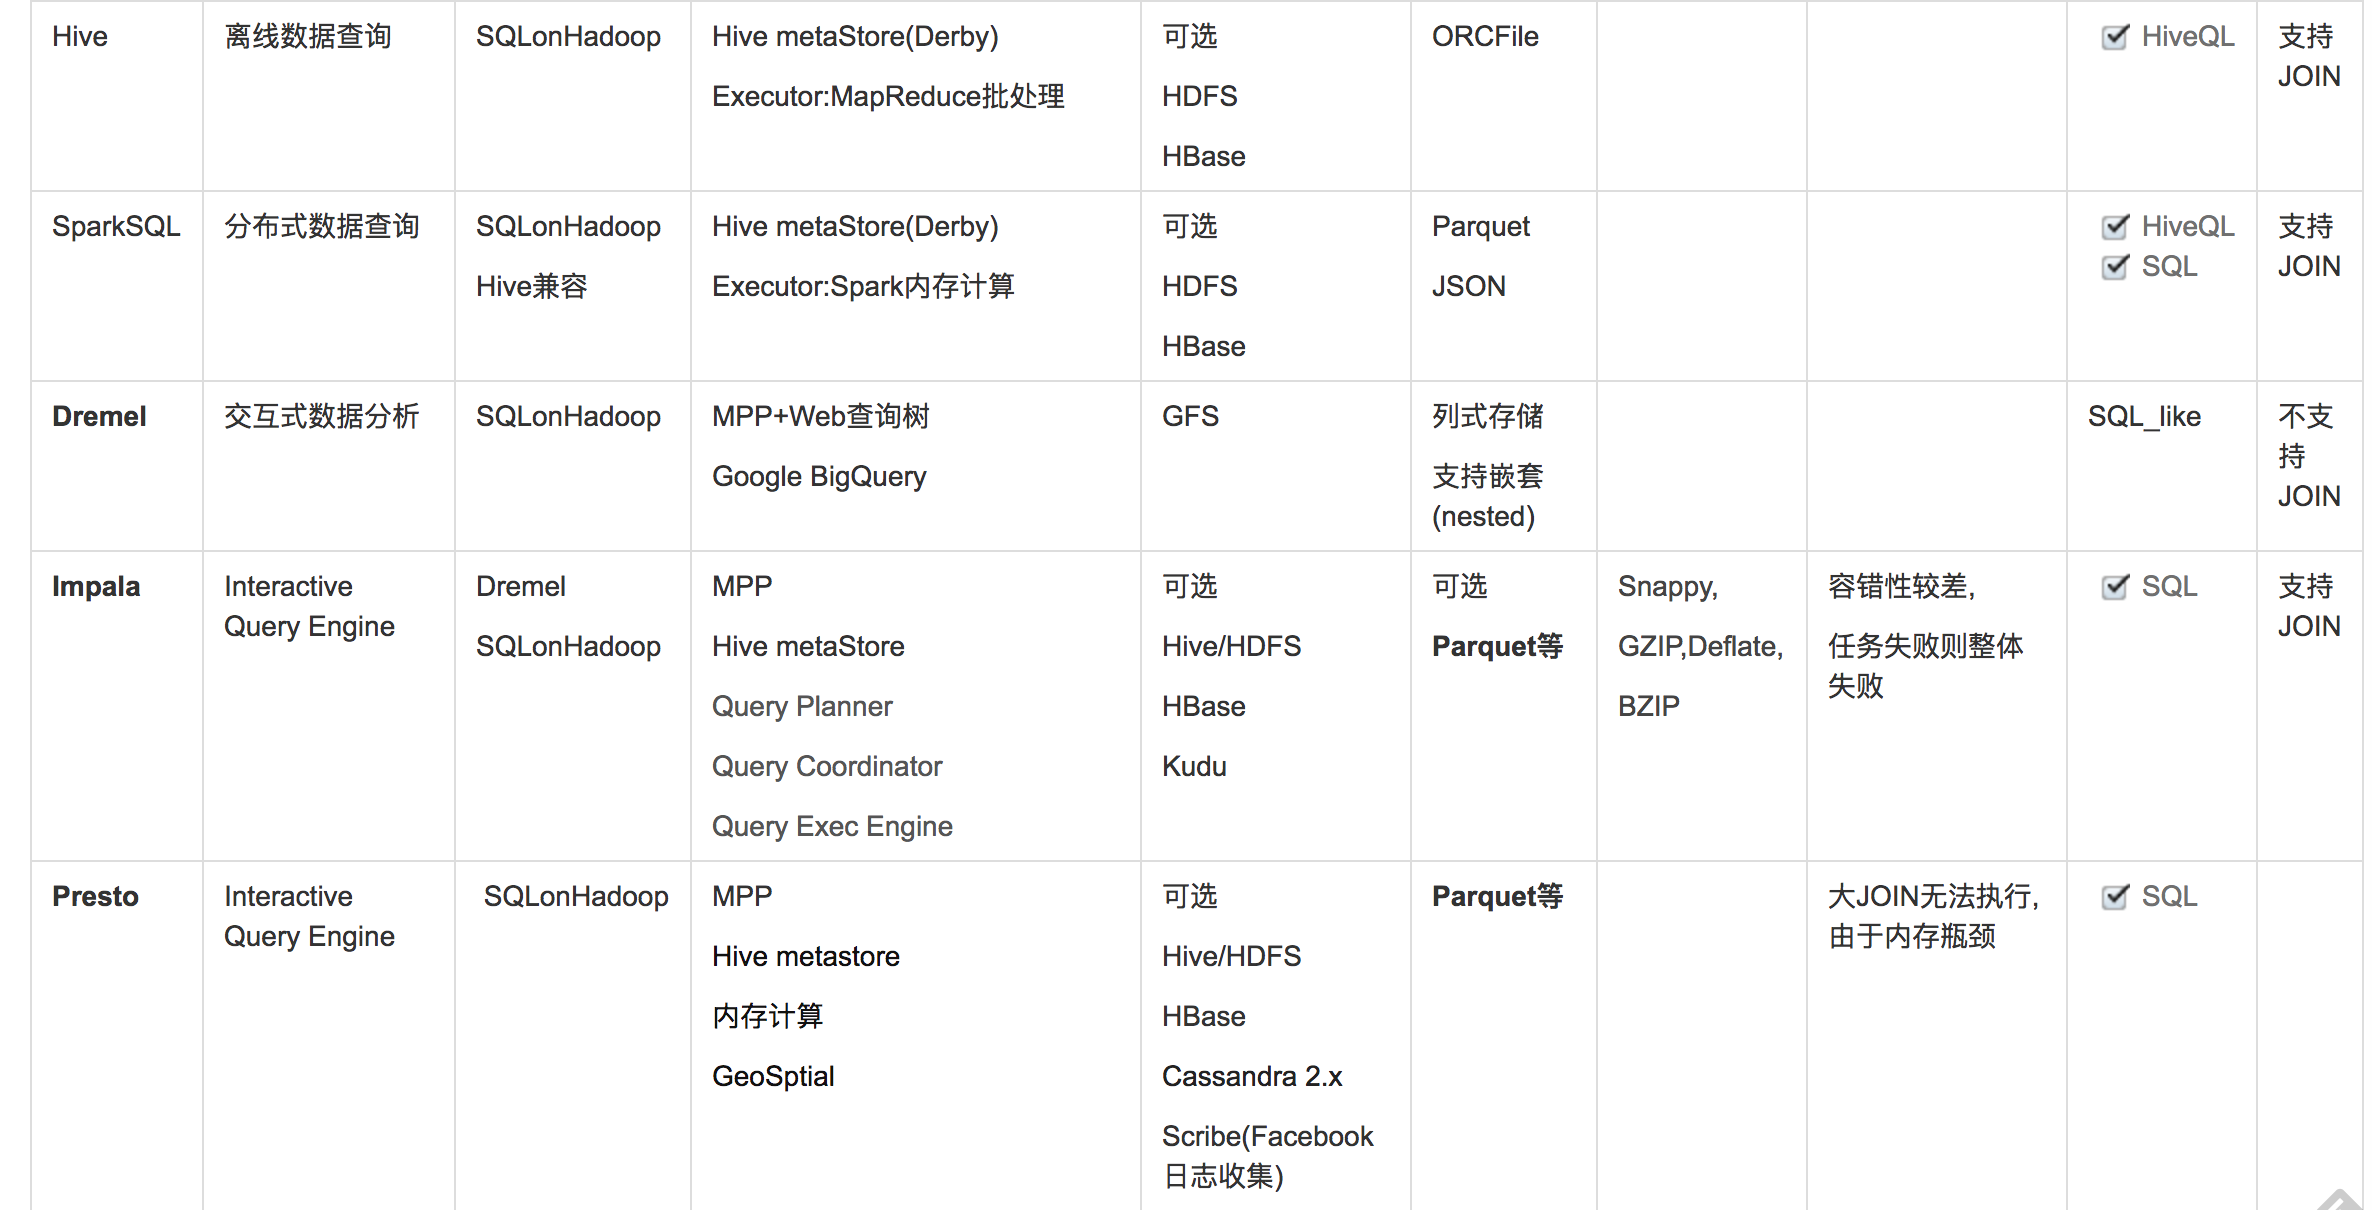
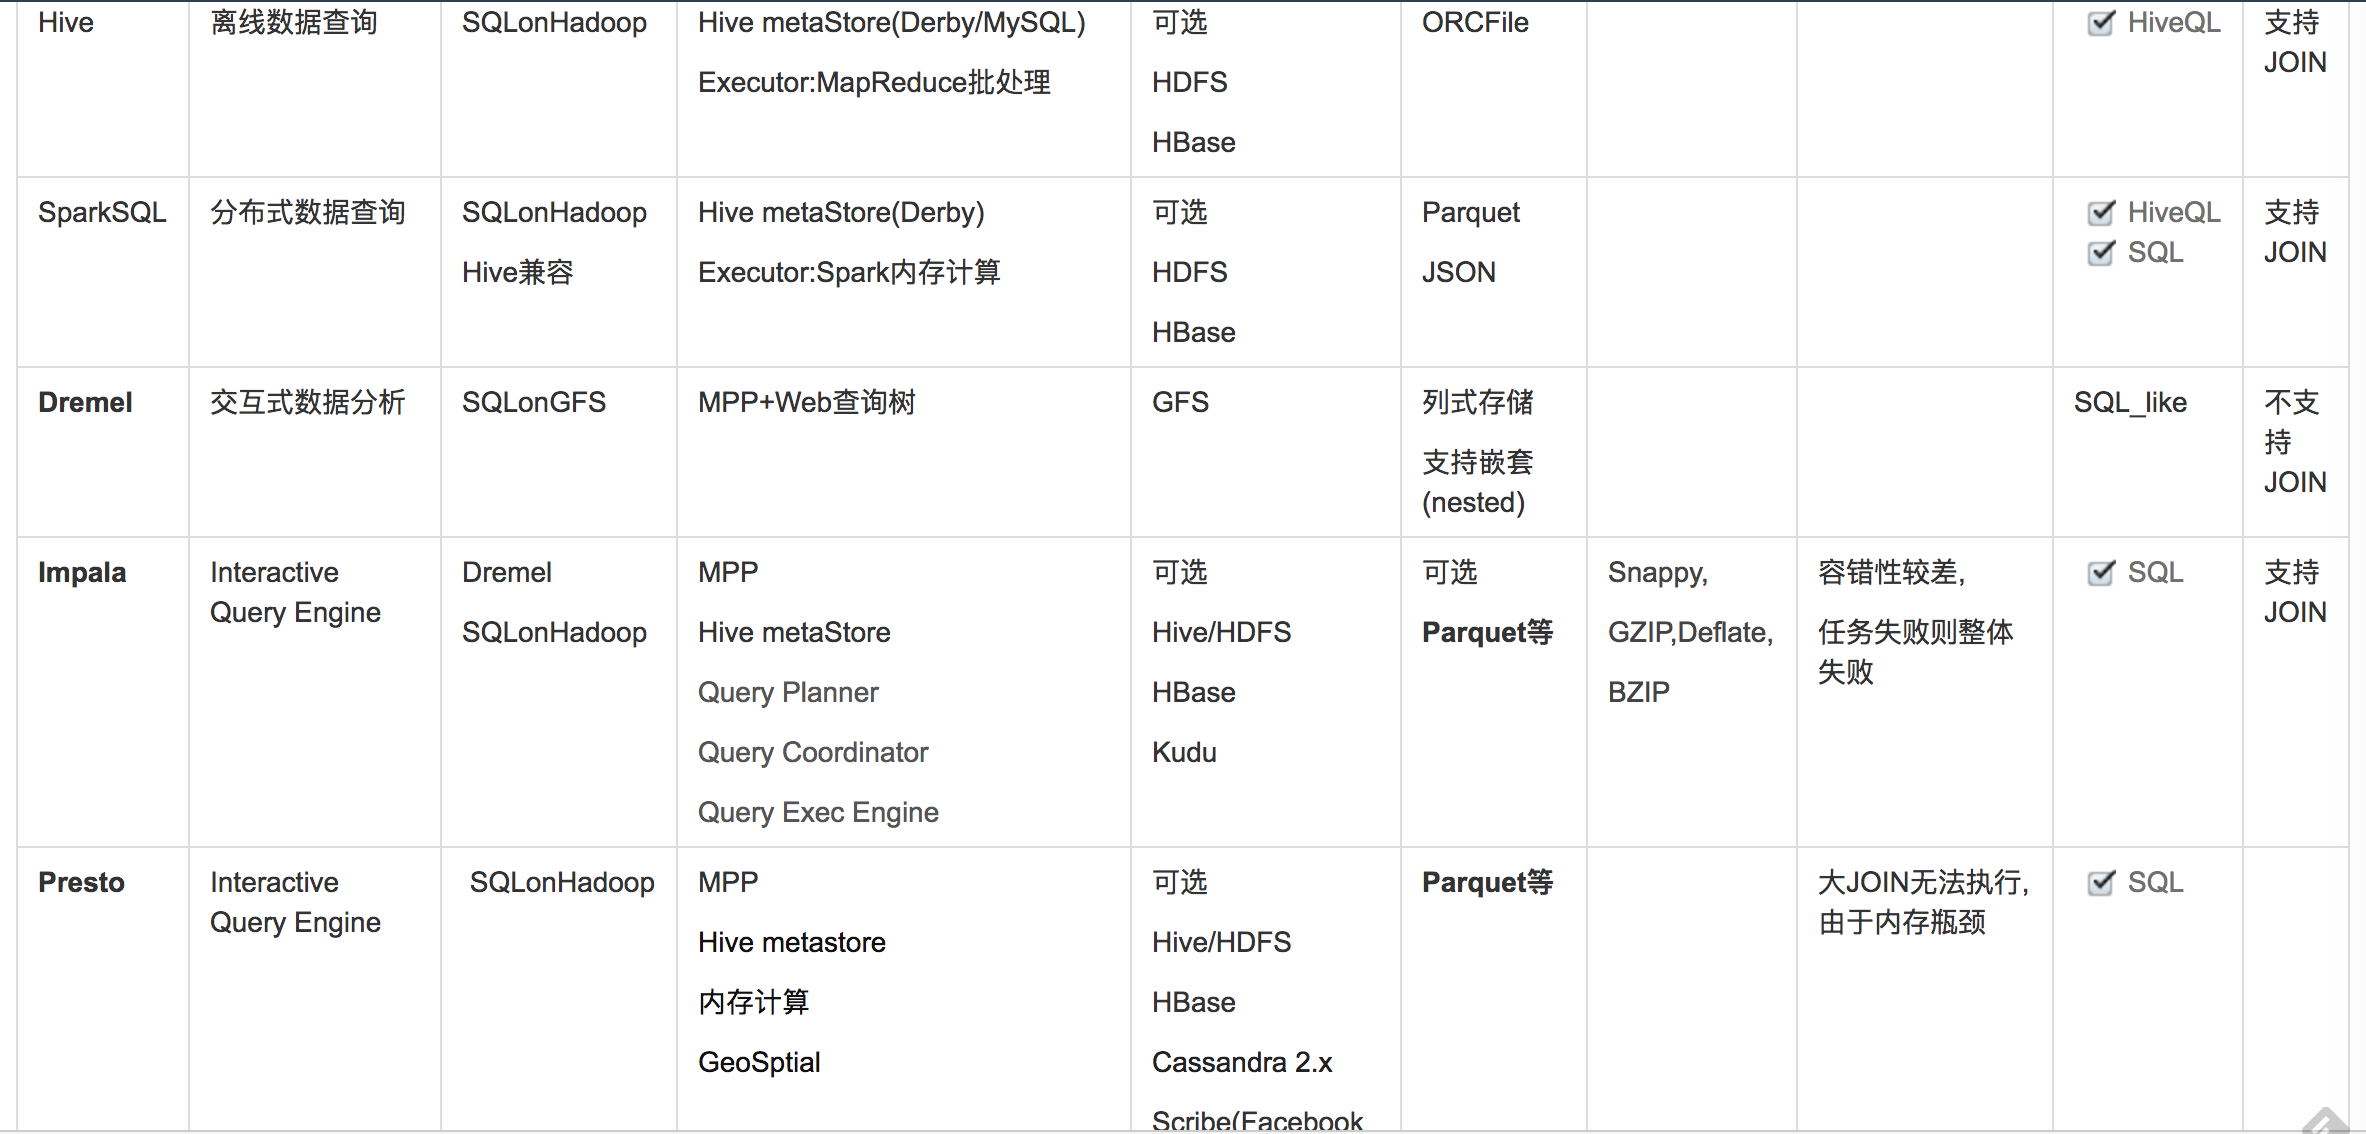
update spark post2

diff --git a/blogs/2017-03-27-realtime-dataprocess-architect-note.md b/blogs/2017-03-27-realtime-dataprocess-architect-note.md
@@ -168,49 +168,78 @@ local/local-cluster/standalone cluster/SparkonYARN
 
 ##### 2.Spark Streaming
 
-DStream(Discretized Stream)
-表示从数据源获取持续性的数据流以及经过转换后的数据流,连续的RDD序列
+![spark_streaming_process](_includes/spark_streaming_process.png)
 
-- Master
+- Master(Spark/Mesos/YARN集群URL或local[*])
 - Worker
 - Client
 
-StreamingContext
+2.2.代码结构
 
-JobScheduler
-DStreamGraph
-StreamingTab
+* StreamingContext(由SparkContext创建生成)
+* DStream(Discretized Stream)表示从数据源获取持续性的数据流以及经过转换后的数据流,连续的RDD序列
 
-BlockRDD
+	Basic sources:这些源在StreamingContext API中直接可用
+	Advanced sources:这些源包括Kafka,Flume,Kinesis,Twitter等
 
-容错性分析
+* Receiver
+* DStream transformation
+* 缓存或持久化-DStream.persist(默认持久化到内存)
+* Checkpointing-dstream.checkpoint
+* JobScheduler
+* DStreamGraph
+* StreamingTab
+* BlockRDD
 
-**SparkStreaming vs Storm**
+2.3.容错性分析
+
+2.4.SparkStreaming vs Storm
 
 - Akka作为Spark集群间通信框架
 - Storm依赖于ZooKeeper来维护整个集群,集群之间的消息通信采用ZeroMQ/Netty作为消息发送组件
 - 在JVM进程中各线程之间的消息传递使用DisruptorPattern(高效线程间消息发送机制)
 - Storm的TridentTopology与SparkStreaming的DStream
 
+
 ##### 3.SparkSQL(ac-hoc即席查询)
 
-3.1.SQL执行顺序
+SchemaRDD类似关系型数据库,可以通过存在的RDD,一个Parquet文件,一个JSON数据库或者Hive中使用HiveQL创建的
+
+3.1.SparkSQL应用
+
+* Spark SQL supports two different methods for converting existing RDDs into Datasets. 
+* Spark SQL supports automatically converting an RDD of JavaBeans into a DataFrame. 
+* Spark SQL also includes a data source that can read data from other databases using JDBC.
+* Spark SQL can cache tables using an in-memory columnar format by calling spark.cacheTable("tableName") or dataFrame.cache().
+
+3.2.代码结构
+
+* SQLContext(由SparkContext创建生成)
+* SQLContext - SchemaRDD
+* 数据源:SchemaRDDs/Parquet/JSON数据集/Hive表/ThriftJDBC&ODBC
+
+	- SchemaRDD生成方式:利用反射推断模式/编程指定模式
+
+* SparkSQL通过调用sqlContext.cacheTable("tableName")来缓存柱状格式表
+* 注意schemaRDD.cache()不会用柱状格式表来缓存
+* SparkSQL支持用领域特定语言编写查询
+* SparkSQL数据类型
+
+3.3.SQL执行顺序
 
 - 语法解析
 - 操作绑定
 - 优化执行策略
 - 交付执行
 
-3.2.SQL On Spark
+3.4.SQL On Spark
 
 - SqlParser生成LogicPlan Tree
 - Analyzer和Optimizer将各种Rule作用于LogicalPlan Tree
 - 最终优化生成的LogicalPlan使用SparkPlan生成Spark RDD
 - 最后将生成的RDD交由Spark执行
 
-SQLContext - SchemaRDD
-
-3.3.SparkPlan转换策略
+3.5.SparkPlan转换策略
 
 - CommandStrategy
 - TakeOrdered
@@ -223,19 +252,15 @@ SQLContext - SchemaRDD
 - CartesianProduct(笛卡尔积JOIN)
 - BroadcastNestedLoopJoin(LeftOuterJoin/RightOuterJoin/FullOuterJoin)
 
-3.4.文件格式
+3.6.Spark on Hive
 
-Parquet和JSON
-
-3.5.Spark on Hive
-
-**Hive架构**
+_Hive架构_
 
 - Driver:负责将用户指令翻译转换为相应的MapReduce Job
 - Hive MetaStore元数据库:默认使用Derby存储引擎
 - 支持CLI,JDBC与WebUI接口
 
-**HiveQLOnMapReduce执行过程
+_HiveQLOnMapReduce执行过程_
 
 - Parser
 - Semantic Analyser
@@ -243,10 +268,10 @@ Parquet和JSON
 - QueryPlan Generating
 - Optimizer
 
-HiveContext
+* HiveContext(由SparkContext创建生成)
 
 
-3.6.DataFrames & Datasets
+3.7.DataFrames & Datasets
 
 - A Dataset is a distributed collection of data. 
 - A DataFrame is a Dataset organized into named columns. 
@@ -258,13 +283,6 @@ _Global Temporary View_
 ```java
 spark.sql("SELECT * FROM global_temp.people").show();
 ```
-
-3.7.SparkSQL应用
-
-* Spark SQL supports two different methods for converting existing RDDs into Datasets. 
-* Spark SQL supports automatically converting an RDD of JavaBeans into a DataFrame. 
-* Spark SQL also includes a data source that can read data from other databases using JDBC.
-* Spark SQL can cache tables using an in-memory columnar format by calling spark.cacheTable("tableName") or dataFrame.cache().
 
 ##### 4.BlinkDB
 
@@ -287,8 +305,16 @@ A massively parallel, approximate query engine for running interactive SQL queri
 
 ##### 6. GraphX
 
-- Pregel
-- PageRank
+- 用于图和并行图graph-parallel的计算
+- GraphX通过引入Resilient Distributed Property Graph:带有顶点和边属性的有向多重图,来扩展Spark RDD.
+- Google图算法引擎Pregel(用来解决网页链接分析、社交数据挖掘等实际应用中涉及的大规模分布式图计算问题)
+- GraphX项目的目的是将graph-parallel和data-parallel统一在一个系统中
+- 属性图是一个有向多重图,它带有连接到每个顶点和边的用户定义的对象.
+- 属性图是不可变的,分布式的,容错的。
+- Pregel API
+- org.apache.spark.graphx.lib-PageRank算法
+
+![graphx_process](_includes/graphx_process.png)
 
 
 ### III.OLAP In-Memory Computing

diff --git a/blogs/2017-04-04-sqlonhadoop-anlysis-note.md b/blogs/2017-04-04-sqlonhadoop-anlysis-note.md
@@ -140,6 +140,10 @@ SubPlan有几个重要的属性**planDistribution**、**outputPartitioning**、*
 - 成熟度还不是很高的开源方案?
 - [DrillArch](http://drill.apache.org/docs/architecture/)
 
+### 4.Dremel
+
+![dremel_page](_includes/dremel_page.jpg)
+
 ### x.SQLonHadoop架构分析
 
 #### 系统架构
